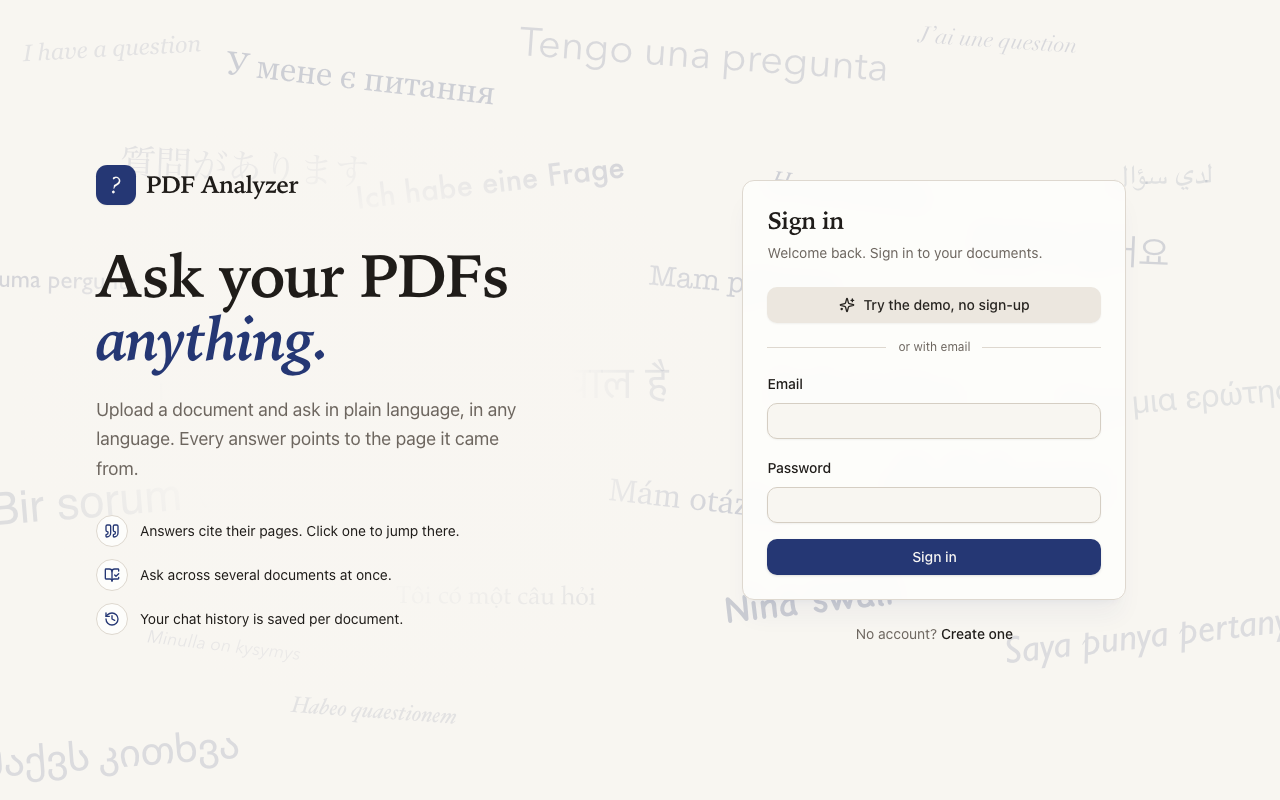
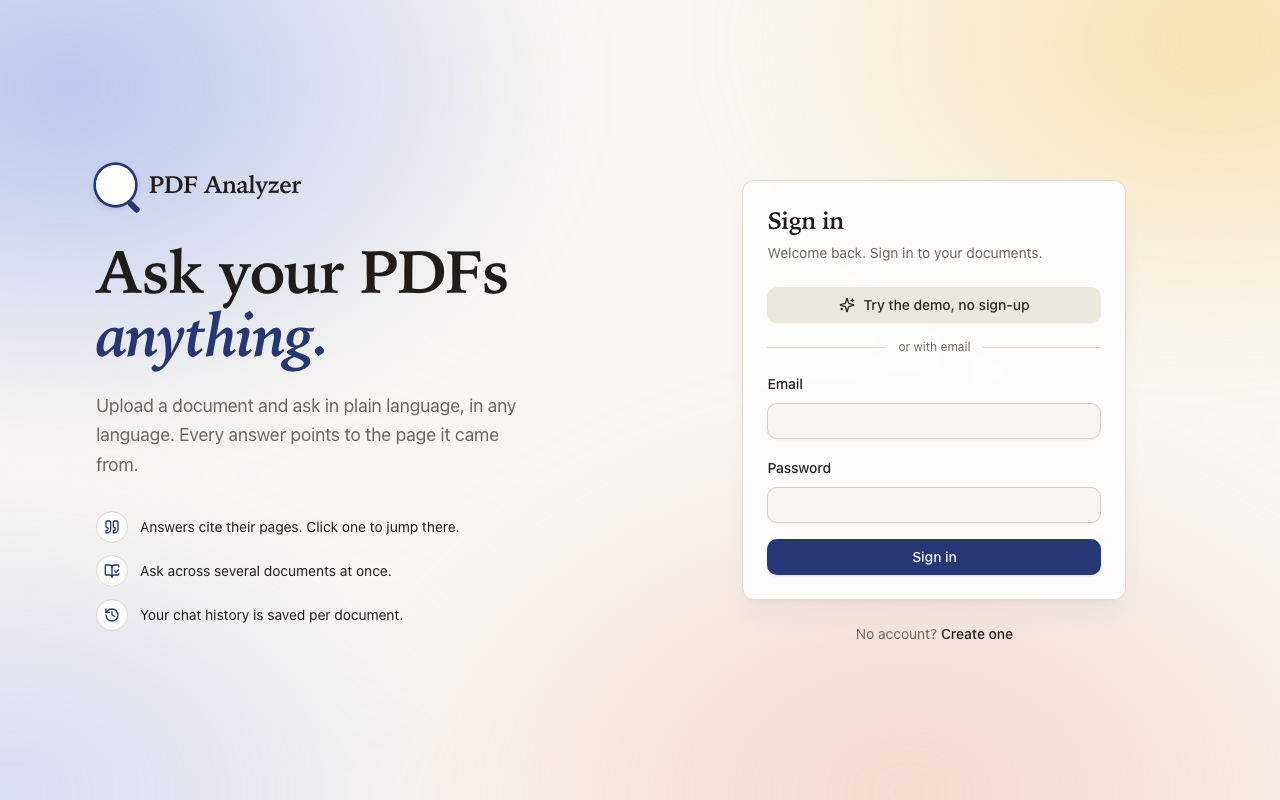
feat(web): replace the text backdrop with a soft drifting gradient
The multilingual "I have a question" wall is gone. Sign-in, dashboard and
empty chats now sit on blurred ink-blue, gold and clay colour fields from new
--glow-* tokens (tuned for dark mode), drifting slowly and standing still under
reduced motion. With no decorative text left, the axe audit now checks the
whole page.

diff --git a/apps/web/src/index.css b/apps/web/src/index.css
@@ -23,7 +23,10 @@
     --input: 36 18% 80%;
     --ring: 226 52% 30%;
     --highlight: 45 95% 58%;
-    --backdrop-ink: 226 40% 30%;
+    /* Gradient backdrop: ink blue, gold and clay */
+    --glow-a: 226 75% 72%;
+    --glow-b: 42 92% 70%;
+    --glow-c: 14 70% 78%;
     --radius: 0.75rem;
   }
 
@@ -47,7 +50,9 @@
       --input: 30 5% 25%;
       --ring: 222 75% 74%;
       --highlight: 45 90% 50%;
-      --backdrop-ink: 222 60% 80%;
+      --glow-a: 226 65% 38%;
+      --glow-b: 38 75% 32%;
+      --glow-c: 340 45% 30%;
     }
   }
 
@@ -97,4 +102,30 @@
 .prose-answer th,
 .prose-answer td {
   @apply border-b px-2 py-1;
+}
+
+/* Soft gradient backdrop (GradientBackdrop.tsx): three blurred colour fields that drift very slowly */
+.gradient-backdrop {
+  background:
+    radial-gradient(40% 45% at 18% 22%, hsl(var(--glow-a) / 0.55), transparent 70%),
+    radial-gradient(38% 42% at 82% 18%, hsl(var(--glow-b) / 0.5), transparent 70%),
+    radial-gradient(45% 50% at 65% 85%, hsl(var(--glow-c) / 0.45), transparent 70%),
+    radial-gradient(35% 40% at 15% 85%, hsl(var(--glow-a) / 0.3), transparent 70%);
+  filter: blur(40px);
+  animation: gradient-drift 30s ease-in-out infinite alternate;
+}
+
+@keyframes gradient-drift {
+  from {
+    transform: translate3d(-3%, -2%, 0) rotate(0deg) scale(1);
+  }
+  to {
+    transform: translate3d(3%, 2%, 0) rotate(8deg) scale(1.08);
+  }
+}
+
+@media (prefers-reduced-motion: reduce) {
+  .gradient-backdrop {
+    animation: none;
+  }
 }

diff --git a/apps/web/src/features/auth/AuthForm.tsx b/apps/web/src/features/auth/AuthForm.tsx
@@ -2,7 +2,7 @@ import { BookOpenCheck, History, Loader2, Quote } from 'lucide-react';
 import { useState, type FormEvent, type ReactNode } from 'react';
 import type { ZodSchema } from 'zod';
 import { Logo } from '@/components/Logo';
-import { QuestionBackdrop } from '@/components/QuestionBackdrop';
+import { GradientBackdrop } from '@/components/GradientBackdrop';
 import { Button } from '@/components/ui/button';
 import { Card, CardContent, CardDescription, CardHeader, CardTitle } from '@/components/ui/card';
 import { Input } from '@/components/ui/input';
@@ -65,14 +65,9 @@ export function AuthForm<T>({
 
   return (
     <div className="relative min-h-dvh overflow-hidden">
-      <QuestionBackdrop intensity="bold" />
+      <GradientBackdrop intensity="bold" />
       <div className="relative mx-auto grid min-h-dvh max-w-6xl items-center gap-10 px-4 py-10 lg:grid-cols-[1.1fr_1fr] lg:px-8">
-        <section className="relative isolate hidden lg:block">
-          {/* A soft glow in the page colour, so the backdrop fades out behind the text */}
-          <div
-            aria-hidden
-            className="absolute -inset-x-24 -inset-y-20 -z-10 bg-[radial-gradient(closest-side,hsl(var(--background))_55%,hsl(var(--background)/0))]"
-          />
+        <section className="relative hidden lg:block">
           <Logo size="lg" />
           <h1 className="mt-10 text-6xl font-semibold leading-[1.05] tracking-tight">
             Ask your PDFs

diff --git a/apps/web/src/features/chat/ChatPanel.tsx b/apps/web/src/features/chat/ChatPanel.tsx
@@ -3,7 +3,7 @@ import { ArrowUp, Bot, Eraser, Loader2, Square, User } from 'lucide-react';
 import { useEffect, useRef, useState, type KeyboardEvent } from 'react';
 import { toast } from 'sonner';
 import { MAX_QUESTION_LENGTH, type ChatDetailDTO, type Citation, type MessageDTO } from '@pdf-analyzer/shared';
-import { QuestionBackdrop } from '@/components/QuestionBackdrop';
+import { GradientBackdrop } from '@/components/GradientBackdrop';
 import { AnswerContent, SourceList } from '@/features/chat/AnswerContent';
 import { Button } from '@/components/ui/button';
 import { Textarea } from '@/components/ui/textarea';
@@ -107,7 +107,7 @@ export function ChatPanel({ chat, onCite }: { chat: ChatDetailDTO; onCite: (c: C
       </div>
 
       <div ref={listRef} className="relative min-h-0 flex-1 space-y-5 overflow-y-auto p-4" aria-live="polite">
-        {empty && <QuestionBackdrop />}
+        {empty && <GradientBackdrop />}
         {empty && (
           <div className="relative flex h-full flex-col items-center justify-center gap-4 text-center">
             <div className="space-y-1">

diff --git a/apps/web/src/pages/DashboardPage.tsx b/apps/web/src/pages/DashboardPage.tsx
@@ -4,7 +4,7 @@ import { useNavigate } from 'react-router-dom';
 import { toast } from 'sonner';
 import { MAX_DOCS_PER_CHAT } from '@pdf-analyzer/shared';
 import { useCreateChat } from '@/api/queries';
-import { QuestionBackdrop } from '@/components/QuestionBackdrop';
+import { GradientBackdrop } from '@/components/GradientBackdrop';
 import { Button } from '@/components/ui/button';
 import { MultiChatList } from '@/features/chat/MultiChatList';
 import { DocumentList } from '@/features/documents/DocumentList';
@@ -44,7 +44,7 @@ export function DashboardPage() {
 
   return (
     <div className="relative h-full overflow-y-auto">
-      <QuestionBackdrop className="fixed top-14" />
+      <GradientBackdrop className="fixed top-14" />
       <div className="relative mx-auto max-w-4xl space-y-8 px-4 py-10">
         <section className="space-y-4">
           <div>

diff --git a/apps/web/src/components/GradientBackdrop.tsx b/apps/web/src/components/GradientBackdrop.tsx
@@ -1,0 +1,27 @@
+import { cn } from '@/lib/utils';
+
+/**
+ * A soft, slowly drifting gradient in the app's palette (ink blue, gold, clay), drawn from the
+ * --glow-* colour tokens so it adapts to light and dark mode. Purely decorative: hidden from screen
+ * readers, never catches clicks, and holds still for people who prefer reduced motion.
+ */
+export function GradientBackdrop({
+  intensity = 'subtle',
+  className
+}: {
+  intensity?: 'subtle' | 'bold';
+  className?: string;
+}) {
+  return (
+    <div
+      aria-hidden
+      className={cn(
+        'pointer-events-none absolute inset-0 overflow-hidden',
+        intensity === 'bold' ? 'opacity-100' : 'opacity-60',
+        className
+      )}
+    >
+      <div className="gradient-backdrop absolute -inset-[20%]" />
+    </div>
+  );
+}

diff --git a/e2e/a11y.spec.ts b/e2e/a11y.spec.ts
@@ -5,8 +5,6 @@ import { expect, test, type Page } from '@playwright/test';
 async function expectNoViolations(page: Page) {
   const { violations } = await new AxeBuilder({ page })
     .withTags(['wcag2a', 'wcag2aa', 'wcag21a', 'wcag21aa'])
-    // The faint multilingual backdrop is pure decoration (aria-hidden), which WCAG 1.4.3 exempts from contrast
-    .exclude('[aria-hidden="true"]')
     .analyze();
   expect(violations.map((v) => `${v.id}: ${v.help} (${v.nodes.map((n) => n.target.join(' ')).join(', ')})`)).toEqual(
     []

diff --git a/README.md b/README.md
@@ -20,11 +20,11 @@ Chat with your PDFs: upload documents, ask questions, and get answers that strea
 - **Documented API.** An OpenAPI 3.1 spec, generated from the same Zod schemas the API validates with, browsable at `/api/docs`.
 - **Limits and errors.** A 15 MB cap checked on both client and server, a `%PDF-` signature check, scanned-PDF detection ("No text found"), and clear errors for password-protected and corrupt files.
 - **Security built against the OWASP Top 10.** Rate limits and account lockout, revocable server-side sessions in httpOnly cookies, bcrypt, CSRF origin checks, a strict Content-Security-Policy, parameterised SQL only (enforced by lint), prompt-injection defences, security event logging, and dependency, secret and CodeQL scanning in CI. [SECURITY.md](SECURITY.md) maps each risk to its controls and tests.
-- **Designed for the Mac.** Headings in New York, text in SF Pro and numbers in SF Mono, with light and dark themes. The sign-in page has a wall of "I have a question" in 26 languages, each set in a typeface that ships with macOS. Other systems fall back to their own fonts.
+- **Designed for the Mac.** Headings in New York, text in SF Pro and numbers in SF Mono, with light and dark themes. Pages sit on a soft, slowly drifting gradient in the app's ink-blue, gold and clay palette, which holds still for people who prefer reduced motion. Other systems fall back to their own fonts.
 - **Demo sandboxes.** Visitors try the app without signing up. Each gets a private account with the sample PDFs already indexed, and an hourly job deletes it, along with its stored files, after 24 hours.
 - **Runs offline.** With `AI_PROVIDER=fake` the app needs no API key: it uses deterministic embeddings and extractive answers, the same mode the tests run in.
 
-![Sign-in page with "I have a question" in 26 languages](docs/screenshot-sign-in.png)
+![Sign-in page](docs/screenshot-sign-in.png)
 
 ## Tech stack
 
